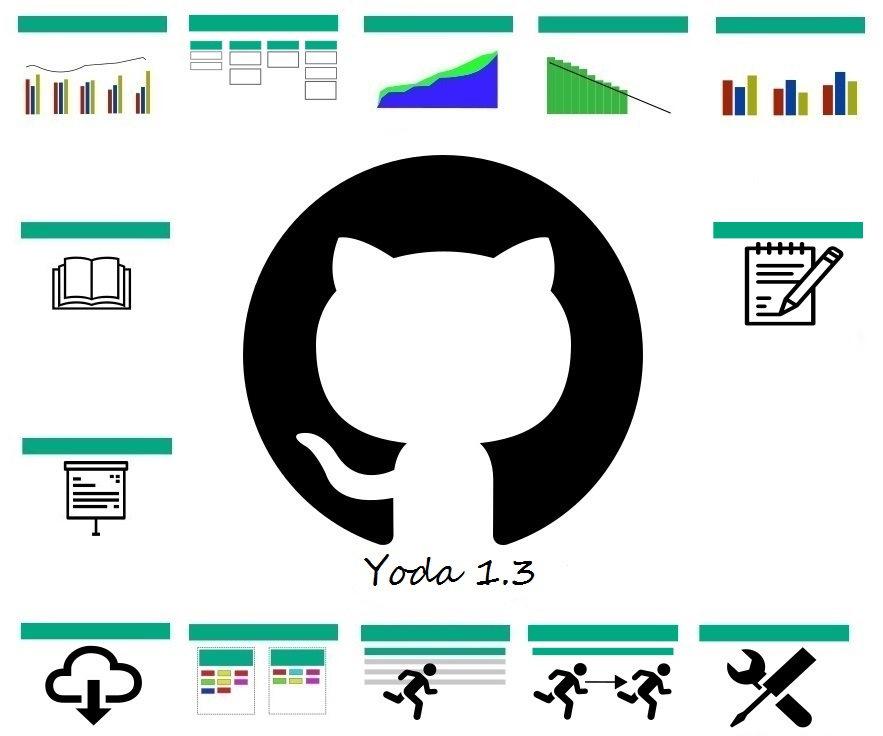
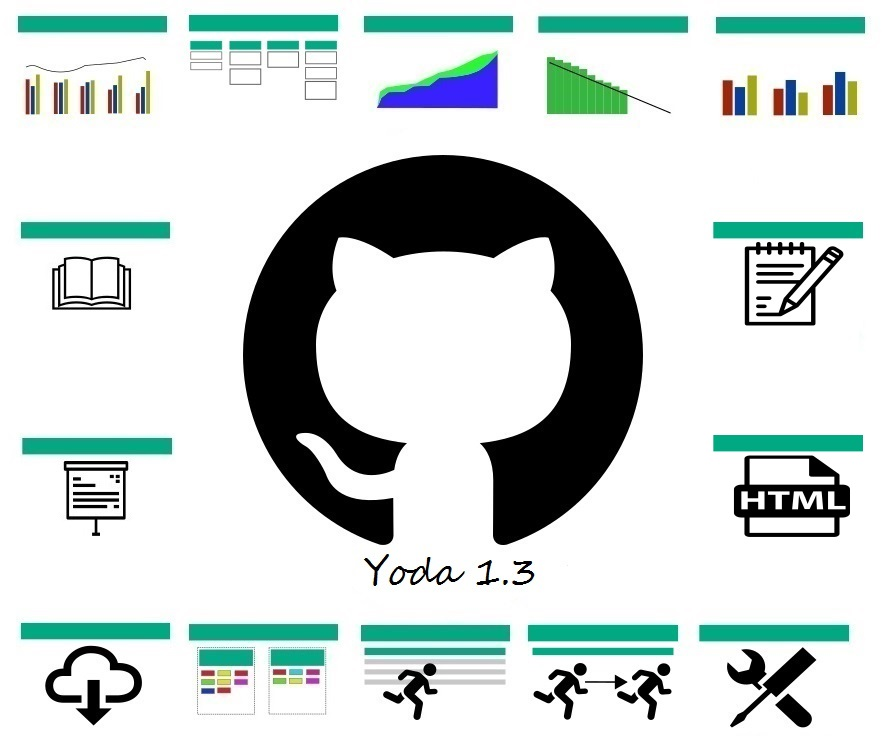
#39 added menus/navigation for new tool

Changed region(s): [[0.795, 0.5625, 0.9785, 0.75]]

diff --git a/docs/index.html b/docs/index.html
@@ -45,6 +45,7 @@ OR IN CONNECTION WITH THE SOFTWARE OR THE USE OR OTHER DEALINGS IN THE SOFTWARE.
     <area alt="" title="Task Copy" href="yoda-copy-tasks.html" shape="rect" coords="523,614,686,724" />
     <area alt="" title="Admin" href="yoda-admin.html" shape="rect" coords="692,612,867,725" />
     <area alt="" title="Release Notes" href="yoda-release-notes.html" shape="rect" coords="875,364,699,195" />
+    <area alt="" title="Export to Web Pages" href="yoda-export-web.html" coords="689,402,878,576" shape="rect">
     <area target="_blank" alt="Yoda at GitHub.com" title="Yoda at GitHub.com" href="https://github.com/hewlettpackard/yoda" coords="225,140,666,584" shape="rect">
 </map>
 

diff --git a/docs/yoda-utils.js b/docs/yoda-utils.js
@@ -1053,6 +1053,7 @@ var yoda = (function() {
 			$("#yodamenu").append('<a href="yoda-label-manager.html">Label Manager</a>');
 			$("#yodamenu").append('<a href="yoda-exporter.html">Issue Exporter</a>');
 			$("#yodamenu").append('<a href="yoda-copy-tasks.html">Task Copier</a>');
+			$("#yodamenu").append('<a href="yoda-export-web.html">Export to Web Pages</a>');
 			$("#yodamenu").append('<a href="MANUAL.html">User Manual</a>');
 			$("#yodamenu").append('<a href="yoda-admin.html">Admin Settings</a>');
 
